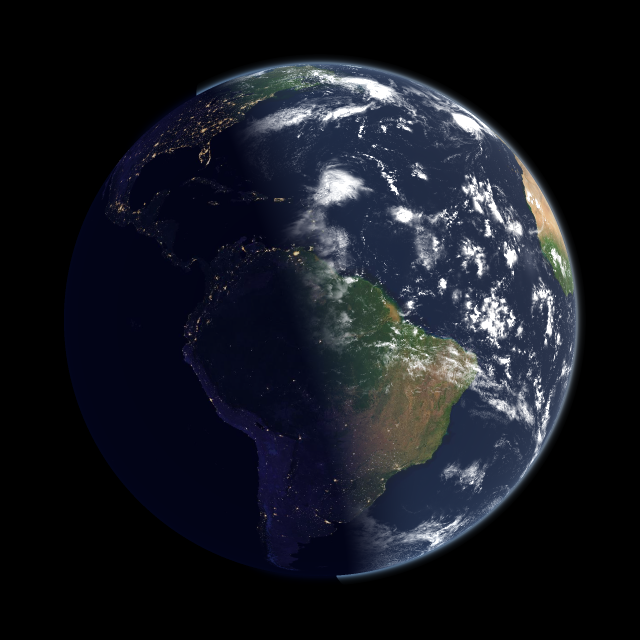
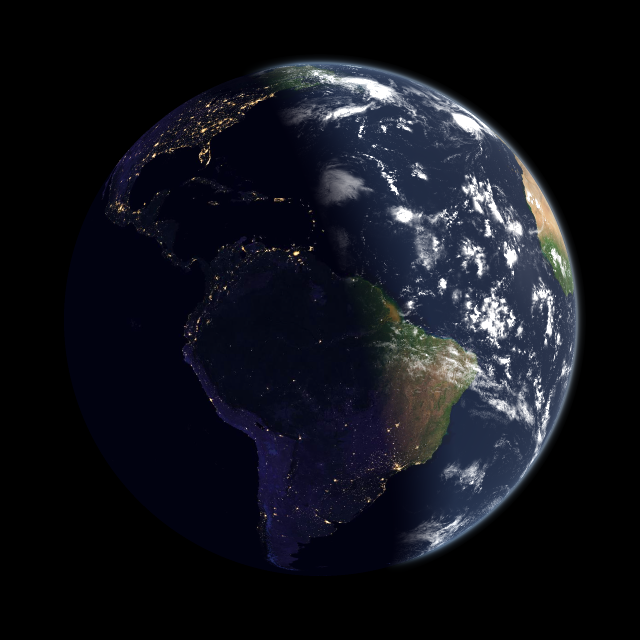
- softer sun reflection - fixed athmospheric light strength - ugly from the front, ugly from the back

Changed region(s): [[0.3125, 0.0938, 0.6875, 0.9062], [0.3125, 0.1875, 0.3438, 0.25]]

diff --git a/render/renderer.go b/render/renderer.go
@@ -76,6 +76,21 @@ func BlendNightDay(ctx *RayContext, CDay, CNight colors.Color4, light float64) c
 	return colors.Color4{R: r, G: g, B: b, A: 1.0}
 }
 
+// Compute how much sunlight is hitting the surface (soft transition)
+func getLightIntensity(extendedSurfaceNormal, sunDir vectors.Vec3) float64 {
+	sunLightIntensity := extendedSurfaceNormal.Dot(sunDir)
+	light := Smoothstep(-0.25, 0.05, sunLightIntensity)
+	width := 0.2
+	if sunLightIntensity < width/2 {
+		// this is supposed to fade out light as it goes
+		// into the shadow
+		// width -> -width
+		// width -> 0
+		light *= Clip((sunLightIntensity+width/2)/width, 0, 1)
+	}
+	return light
+}
+
 // RenderEarthSurface renders the visible surface color at the intersection point.
 // It blends day/night textures, clouds, specular, glow, and rim lighting.
 func RenderEarthSurface(ctx *RayContext) colors.Color4 {
@@ -84,9 +99,7 @@ func RenderEarthSurface(ctx *RayContext) colors.Color4 {
 	CNight := ctx.TexNight.Sample(ctx.HitPoint)
 	CClouds := ctx.TexClouds.Sample(ctx.HitPoint)
 
-	// Compute how much sunlight is hitting the surface (soft transition)
-	sunLightIntensity := ctx.SurfaceNormal.Dot(ctx.SunDir)
-	light := Smoothstep(-0.25, 0.05, sunLightIntensity)
+	light := getLightIntensity(ctx.SurfaceNormal, ctx.SunDir)
 
 	// 1. Blend day and night
 	CBlended := BlendNightDay(ctx, CDay, CNight, light)
@@ -137,8 +150,8 @@ func ApplySpecularHighlight(ctx *RayContext, Crgb, Cday colors.Color4) colors.Co
 	normalView := Clip(N.Dot(view), 0.0, 1.0)
 	grazingFalloff := math.Pow(normalView, 3.0)
 
-	exponent := 400.0 // Much sharper highlight
-	strength := 1.0   // Can tweak this if it's too much
+	exponent := 40.0 // Much sharper highlight
+	strength := 0.5  // Can tweak this if it's too much
 
 	specular := math.Pow(specAngle, exponent) * grazingFalloff * strength
 	specular = Clip(specular, 0.0, 1.0)
@@ -306,17 +319,15 @@ func ApplyAtmosphereOverlay(ctx *RayContext, base colors.Color4) colors.Color4 {
 
 	if !ctx.HitEarth {
 		litAmount = litAmount * 0.5
-	}
+		litAmount *= getLightIntensity(midPoint.Normalize(), ctx.SunDir)
+	} else {
+		litAmount *= getLightIntensity(ctx.SurfaceNormal, ctx.SunDir)
 
-	viewToSun := ctx.SunDir.Dot(ctx.RayDir) // [-1, 1]
-	sunAngle := (1.0 - viewToSun) * 0.5     // 0 near sun, 1 opposite
-
-	if !ctx.HitEarth && sunAngle > 0.5 {
-		// this is supposed to fade out the atmosphere as it goes into the shadow
-		litAmount *= Smoothstep(0.54, 0.5, sunAngle)
 	}
 
 	// Hue shift: warm when near sun, cool away
+	viewToSun := ctx.SunDir.Dot(ctx.RayDir) // [-1, 1]
+	sunAngle := (1.0 - viewToSun) * 0.5     // 0 near sun, 1 opposite
 	skyColor := colors.New(
 		Lerp(1.0, ctx.theme.DayRim.R, sunAngle), // R: white → neutral warm
 		Lerp(1.0, ctx.theme.DayRim.G, sunAngle), // G: white → slightly greenish

diff --git a/main.go b/main.go
@@ -28,7 +28,7 @@ type config struct {
 func defineFlags() config {
 	return config{
 		lat:  flag.Float64("lat", 0.0, "Camera latitude in degrees"),
-		lon:  flag.Float64("lon", -20.0, "Camera longitude in degrees"),
+		lon:  flag.Float64("lon", -100.0, "Camera longitude in degrees"),
 		alt:  flag.Float64("alt", 8880.0, "Camera altitude in kilometers"),
 		fov:  flag.Float64("fov", 60.0, "Camera field of view in degrees"),
 		yaw:  flag.Float64("yaw", 0.0, "Camera yaw in degrees"),
@@ -40,9 +40,9 @@ func defineFlags() config {
 
 		out: flag.String("out", "earth_view.png", "Output PNG file path"),
 
-		day:    flag.String("day", "assets/world.200408.tif", "Day texture path"),
-		night:  flag.String("night", "assets/night.tif", "Night texture path"),
-		clouds: flag.String("clouds", "assets/cloud.2001210.tif", "Clouds texture path"),
+		day:    flag.String("day", "assets/world.200408.jpg", "Day texture path"),
+		night:  flag.String("night", "assets/night.jpg", "Night texture path"),
+		clouds: flag.String("clouds", "assets/cloud.2001210.jpg", "Clouds texture path"),
 
 		showHelp: flag.Bool("h", false, "Show this help message"),
 	}

diff --git a/renderer_test.go b/renderer_test.go
@@ -110,7 +110,7 @@ func runGoldenImageTest(t *testing.T, expectedPath string, renderFunc func() (im
 
 	// Compare
 	if !imagesEqual(expectedImg, img) {
-		newPath := expectedPath + ".new.png"
+		newPath := expectedPath
 		if err := writePNG(newPath, img); err != nil {
 			t.Fatalf("failed to write new differing image: %v", err)
 		}
